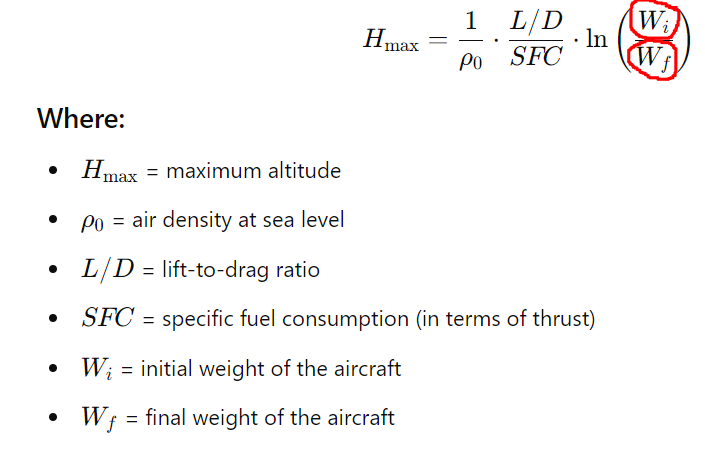
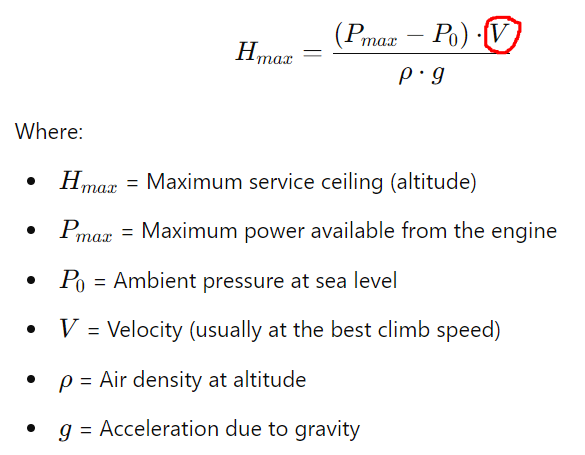
Add readme Appendix

diff --git a/README.md b/README.md
@@ -606,34 +606,44 @@ Furthermore **Aircraft Structure** with categories "Wood and Fabric", "Metal and
 # APPENDIX
 <br>
 
-## Domain specific comments and equations on output features
-Below are dependencies outlined between the features (as well as features mentioned in the Outlook) relevant for making Hypothesis.
+## Domain specific comments on relationships between the features in the data set
+Outlined below are the dependencies between the features in the data set (and features mentioned in the Outlook) relevant for making hypotheses. Other dataset features are encircled in red as they appear in the equations. Underlined features indicate that they are indirectly related to other features in the dataset however the selection of which features to underline is rather ambiguous.
 
 ### Engine Type (categories: Jet, Piston and propjet)
-Jet generally offers faster speeds, higher ceilings and better range (thanks to faster speed and better fuel efficiency). Propjet generally falls somewhere between these two engine types.
+Jet generally offers higher **speed** and **ceilings** as well as better **range**. Propjet generally falls somewhere between these two engine types.  Piston powered propeller driven propulsion units meets an invisible "speed barrier" approaching 400 knots. One reasons for this "barrier" is because the large diameter propeller tips reach the speed of sound. Both jet and piston engines experience reduced performance at higher **altitudes** due to decreased air density, but generally jet engines perform better at higher altitudes than piston engines. The better Range is due to higher speed and fuel efficiency
 
 ### Multi Engine (categories: Single Engine and Multi Engine)
-Multiple Engines generally offer better Speed, Range and Climb.
+Multiple Engines generally offer better **Speed**, **Range** and **Climb** performance.
 
 ### TP mods (categories: Modification or not)
 This feature most likely refer to **Thrust Performance modifications** on Turbo Prop Engines (referred to as propjet in the data set) and is relevant only for the category propjet in the "Engine Type"-feature.  
-### THR
-Both jet and piston engines experience reduced performance at higher **altitudes** due to decreased air density, but generally jet engines perform better at higher altitudes than piston engines. The same goes for **speed** where piston powered propeller driven propulsion units meets an invisible "speed barrier" approaching 400 knots. One ofthe reasons for this limit is that the propeller tips reaches the speed of sound with dramatic penalties. 
-Speed: Both types of engines face increased challenges as speed rises, including increased drag and potential loss of efficiency. Jet engines are designed to handle higher speeds more effectively than piston engines.
-### SHP
-The decrease 
 
-where piston powered propeller driven propulsion units meets an invisible "speed barrier" approaching 400 knots. One of the reasons for this limit is that the propeller tips reaches the speed of sound with dramatic penalties. 
-Speed: Both types of engines face increased challenges as speed rises, including increased drag and potential loss of efficiency. Jet engines are designed to handle higher speeds more effectively than piston engines.
+### THR
+
+<br>
+<img src="image_readme/equations/eq_thr.png" alt="Equation for" style="width: 40%;"/>
+<br>
+
+### SHP
+
+<br>
+<img src="image_readme/equations/eq_shp_tn.png" alt="Equation for" style="width: 30%;"/>
+<br>
+
+<br>
+<img src="image_readme/equations/eq_shp_p.png" alt="Equation for" style="width: 30%;"/>
+<br>
+
 The SHP could also be calculated by a similar formula using the the engine speed in RPM instead of the velocity of the aircraft.
 
 ### Length
-This feature is of little value from a design/performance perspective albeit it could be possible to use for corelation. The part of the length between the wings and tail planes quarter chords would be of a greater interest since it dictates static and dynamic stability. 
+This feature is of little value from a design/performance perspective albeit it could be used for corelation. The part of the length between the wings and tail planes quarter chords would be of a greater interest since it dictates static and dynamic stability.
+
 ### Height
-In a similar way to the Length this feature is of only little value.
+This feature is of an even smaller value than Length.
 
 ### Wing Span
-Wing Span is the one single dimensional feature of real value in the dataset however even here the Wing Area would be an even more useful feature to have. It does not directly relate to Lift (via the classic Lift equation) however for similar wing aspect ratios the span is proportional to the Wing Area and therefor 
+Wing Span is the one single dimensional feature of real value in the dataset however even here the Wing Area would be an even more useful feature to have. Wing Span does not directly relate to Lift (via the classic Lift equation) however since the wingspan is quadratically proportional to wing area (assuming constant aspect ratio/mean chord) a correlation with Wing Span should be seen whenever there is a correlation with Wing Area.
 
 <br>
 <img src="image_readme/equations/eq_lift.png" alt="Equation for" style="width: 70%;"/>
@@ -645,13 +655,14 @@ Fuel weight (together with "AUW") naturally have strong correlation with **Range
 Note also that the FW can be used in the Range Equation.
 
 ### MEW (Empty weight, a.k.a Manufacturer's Empty Weight )
-The Empty weight would be interesting to plot against **Year of first flight** and **Aircraft Structure** (see Outlook-chapter)
+The Empty weight would be interesting to plot against **Year of first flight** and **Aircraft Structure** (see Outlook-chapter) to see if, with new modern material and buildung techniques" the airplanes have become lighter. For this such a study it is important to use MEW rather than AUW.
+
 <br>
 <img src="image_readme/equations/eq_mew.png" alt="Equation for" style="width: 50%;"/>
 <br>
 
 ### AUW (Gross weight, a.k.a All-Up Weight)
-The All-up Weight have a strong correlation with **Wing area** since the Lifting force that the wing produces need to counteract the weight and Wing Area is part of the lift equation (see Outlook-chapter) but also Wing Span (albeit Aspect ratios vary)
+The All-up Weight have a strong correlation with **Wing area** (as do MEW of course however AUW is the more appropriate feature here) since the Lifting force that the wing produces need to counteract the weight and Wing Area is part of the lift equation (see Outlook-chapter) but also Wing Span (albeit Aspect ratios vary)
 
 Note also that the AUW can be used in the Range Equation.
 
@@ -660,37 +671,34 @@ Note also that the AUW can be used in the Range Equation.
 <br>
 
 ### Vmax (Max speed)
+Max Speed should have a strong correlation to both Propulsion type and Multi Engine (and probably TP mods).
 
 <br>
 <img src="image_readme/equations/eq_v_max.png" alt="Equation for SHP " style="width: 50%;"/>
 <br>
 
 ### Vcruise (Cruise speed)
+Cruise Speed should have a strong correlation to both Propulsion type and Multi Engine (and probably TP mods).
+
 <br>
 <img src="image_readme/equations/eq_v_cruise.png" alt="Equation for SHP" style="width: 45%;"/>
 <br>
 
 ### Vstall (Stall speed)
-
+Stall speed should have a strong correlation to AUW and the relationship with Wing Span (and even more Wing Area) and AUW
 <br>
 <img src="image_readme/equations/eq_v_stall.png" alt="Equation for SHP" style="width: 35%;"/>
 <br>
 
 ### Hmax (Max altitude)
-FW and AUW and Albeit not explicit in the below equation Hmax is strongly related to ROC since Hmax has been reached when the ROC reaches zero.
-
-Directly:
-* FW and AUW
-
-Indirectly:
-* ROC
+**Velocity** is trongly correlated and Albeit not explicit in the below equation Hmax is strongly related to **ROC** since Hmax has been reached when the ROC reaches zero. Wing Span (more than Wing area) should also have a strong correlation. FW and AUW 
 
 <br>
 <img src="image_readme/equations/eq_h_max.png" alt="Equation for SHP" style="width: 40%;"/>
 <br>
 
 ### Hmax (One) (Max altitude with only one Engine)
-
+See Hmax.
 
 ### ROC (Rate of Climb)
 THR, Vmax and AUW
@@ -699,7 +707,7 @@ THR, Vmax and AUW
 <br>
 
 ### ROC (One) (Rate of Climb with only one Engine)
-
+See ROC.
 
 ### VLo (Climb speed during normal take-off for a 50 ft obstacle)
 AUW and Span, indirectly, via Wing Area since Span and wing Area is somewhat related to each other.
@@ -741,9 +749,9 @@ Note that a conversion to SI units has not been made in the data set analysis.
 
 |      Quantity     | Meaning/Information/Quantity | Data set units (traditional Aviation units) | SI units |
 |-------------------|------------------------------|---------------------------------------------|----------|
-| "Propulsion size" | x            | lbf and HP                                  | N and W  |   
-| Length            | x            | ft and in                                   |    m     |  
-| Distance          | x                        | N.m. (Nautical miles)                       |   km     |  
-| Weight            | x            | lb                                          | kg or N  |
-| Velocity          | x          | knot or Mach and in                         |   m/s    |   
-| Vertical velocity | x          | ft/min                                      |   m/s    |
+| "Propulsion size" | THR, SHP            | lbf and HP                                  | N and W  |   
+| Length            | Wing Span, Lenght, Height, Slo and Sl           | ft and in                                   |    m     |  
+| Distance          | Range                        | N.m. (Nautical miles)                       |   km     |  
+| Weight            | FW, AUW and MEW            | lb                                          | kg or N  |
+| Velocity          | Vmax, Vcruise, Vstall,          | knot or Mach and in                         |   m/s    |   
+| Vertical velocity | ROC, Vlo and Vl          | ft/min                                      |   m/s    |
